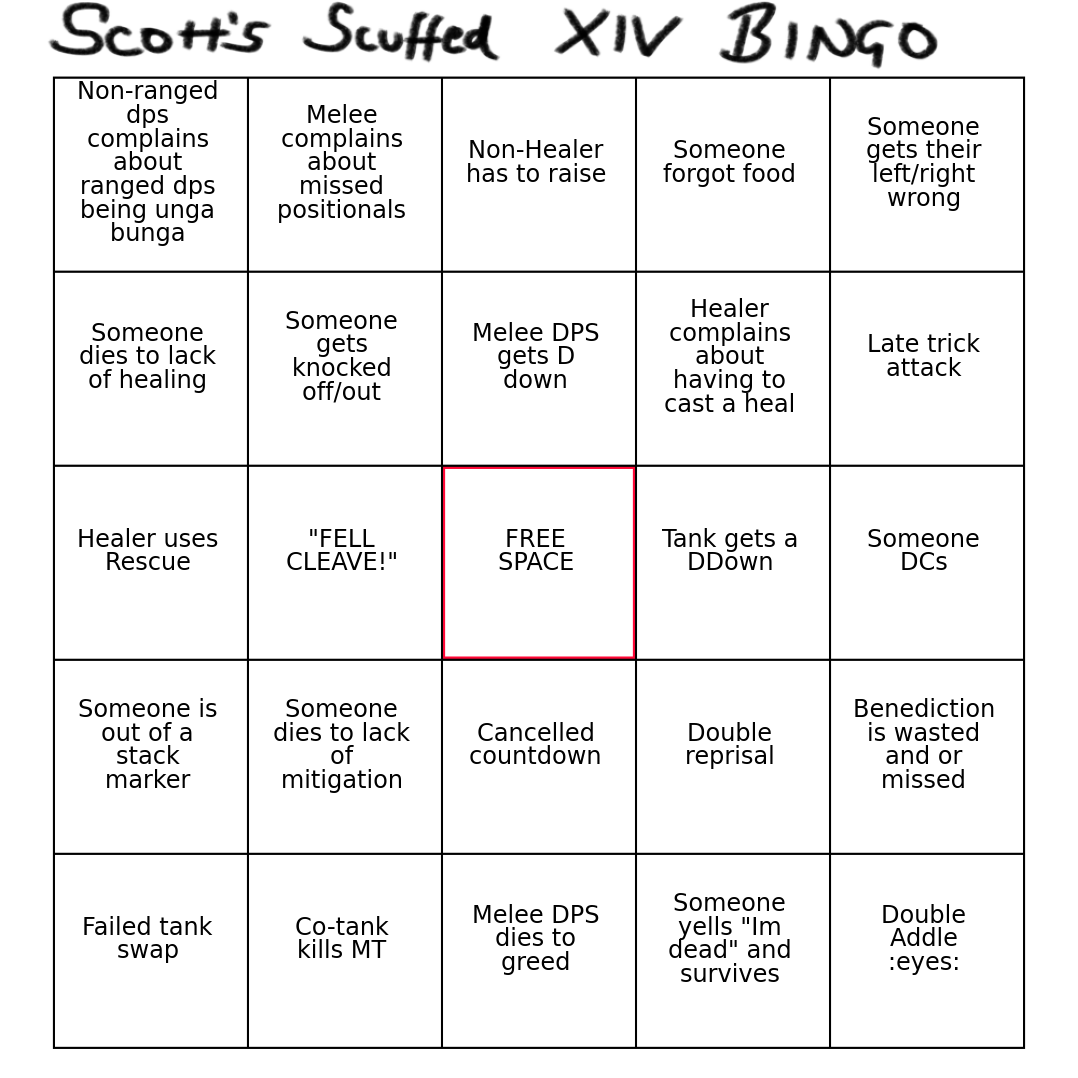
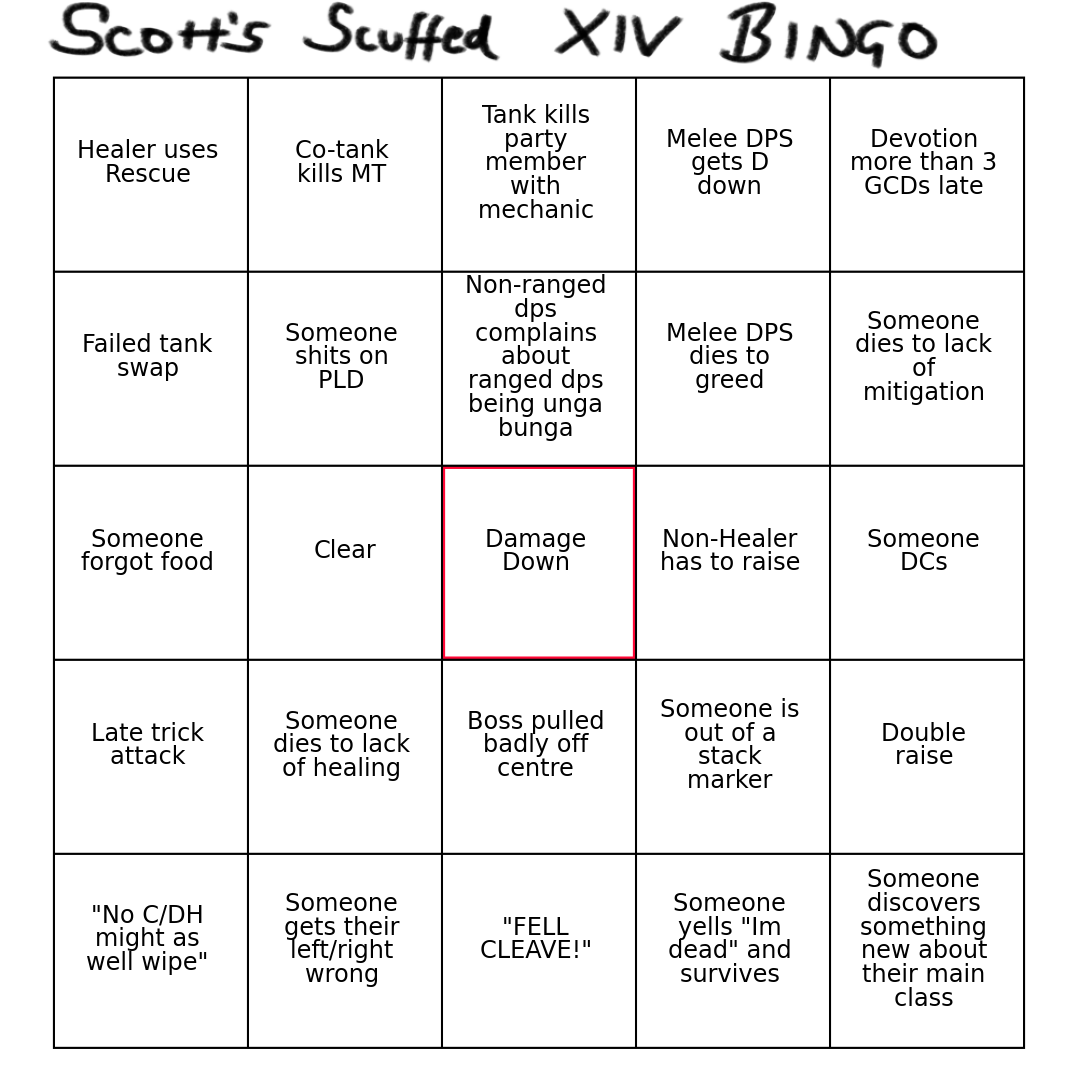
Added requirements and updated random selection logic
Sample lists must be re read every loop or random.choice throws an error about having too few samples. reloading the lists allows for resamples between images.

diff --git a/main.py b/main.py
@@ -42,11 +42,12 @@ free_space = (2, 2)
 # pop the free space coord out of the list
 free_space_coord = all_coords.pop((free_space[0] * x_cells) + free_space[1])
 
-statements = np.loadtxt("list.txt", dtype=str, comments="#", delimiter="\n", unpack=False)
-free_statements = np.loadtxt("free_list.txt", dtype=str, comments="#", delimiter="\n", unpack=False)
-
 # loop to generate n random bingo cards
 for image_num in range(num_images):
+
+    # lists must be loaded every loop for random.choice to resample ¯\_(ツ)_/¯
+    statements = np.loadtxt("list.txt", dtype=str, comments="#", delimiter="\n", unpack=False)
+    free_statements = np.loadtxt("free_list.txt", dtype=str, comments="#", delimiter="\n", unpack=False)
 
     # generate the random values for this card
     random_choices = np.random.choice(statements, (x_cells * y_cells), replace=False)
